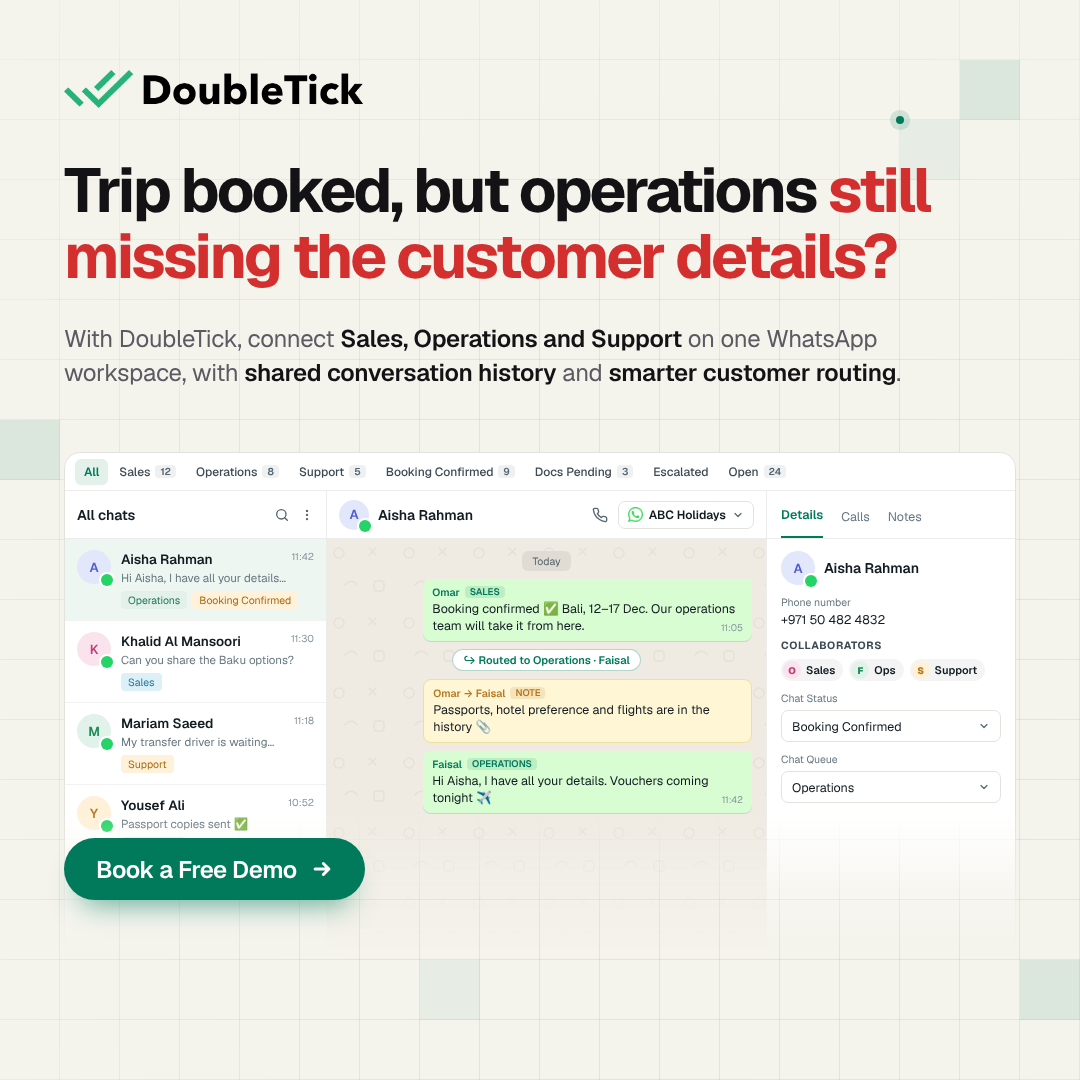
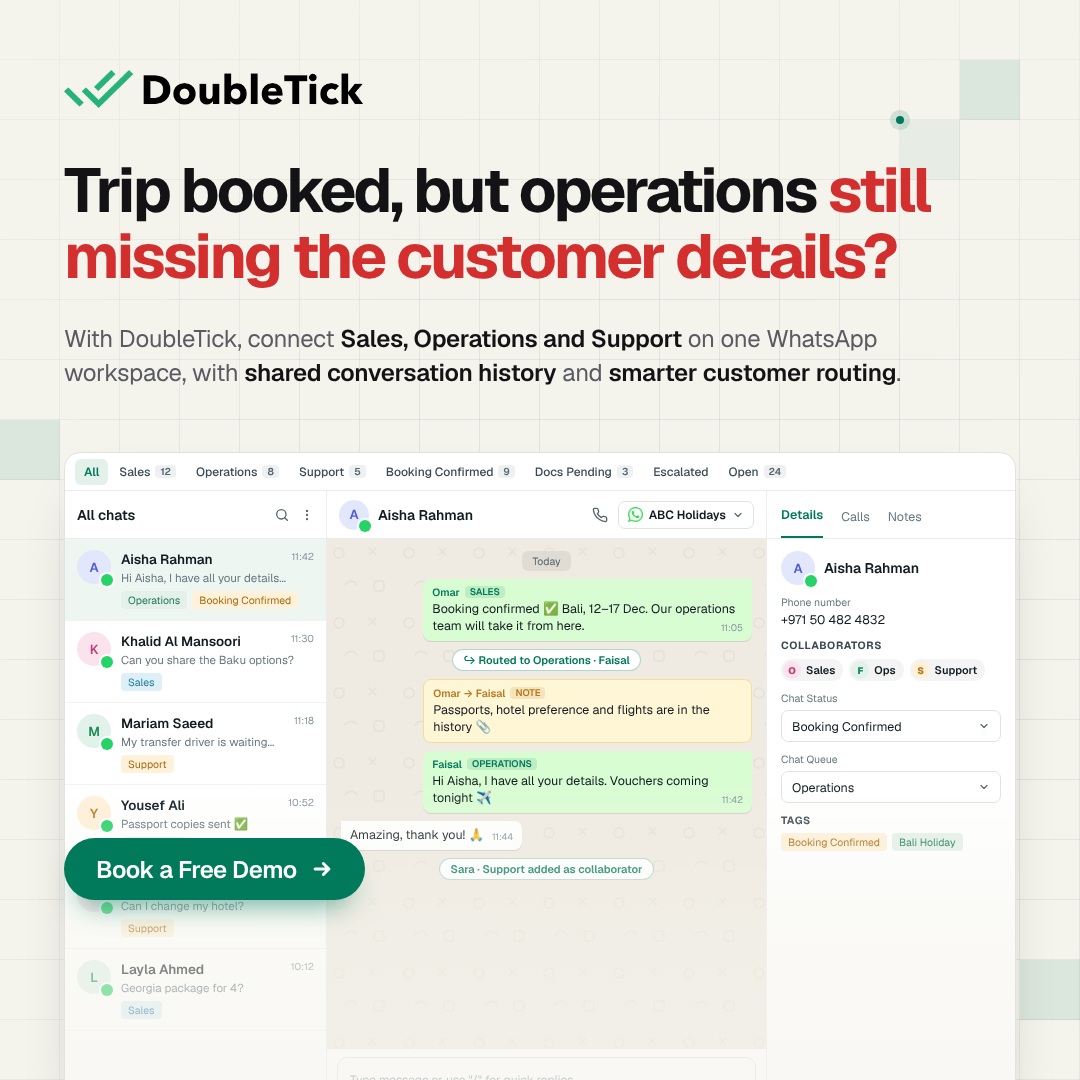
feat(ads): team handoff inbox runs to the bottom with a soft beige wash
Claude-Session: https://claude.ai/code/session_01U68wzeZAut9FRgfZMxNXRM

diff --git a/ads/doubletick-team-handoff/index.html b/ads/doubletick-team-handoff/index.html
@@ -24,8 +24,9 @@
   .sub b { color: var(--ink); font-weight: 600; }
 
   /* DoubleTick inbox (reference UI, simplified) fading into the background */
-  #ui { left: 64px; top: 452px; width: 952px; height: 500px; border-radius: 16px; background: #fff; border: 1px solid #E3E3DE; box-shadow: 0 30px 60px -30px rgba(19,19,22,0.3); overflow: hidden; color: #111B21; font-size: 12px;
-        -webkit-mask-image: linear-gradient(to bottom, #000 0%, #000 72%, rgba(0,0,0,0.3) 88%, transparent 100%); }
+  #ui { z-index: 1; left: 64px; top: 452px; width: 952px; height: 660px; border-radius: 16px; background: #fff; border: 1px solid #E3E3DE; box-shadow: 0 30px 60px -30px rgba(19,19,22,0.3); overflow: hidden; color: #111B21; font-size: 12px; }
+  #ui::after { content: ""; position: absolute; inset: 0; pointer-events: none; z-index: 5; background: linear-gradient(to bottom, rgba(244,243,236,0) 0%, rgba(244,243,236,0) 50%, rgba(244,243,236,0.45) 72%, rgba(244,243,236,0.62) 100%); }
+  .comp { height: 46px; flex: none; display: flex; align-items: center; gap: 10px; margin: 8px 10px; padding: 0 12px; border: 1px solid #E3E3DE; border-radius: 10px; font-size: 12px; color: #8696A0; background: #fff; }
   .stabs { height: 38px; display: flex; align-items: center; gap: 2px; padding: 0 10px; border-bottom: 1px solid #ECECEC; white-space: nowrap; overflow: hidden; }
   .stabs span { padding: 5px 9px; border-radius: 6px; font-size: 12px; font-weight: 500; color: #3B4A54; display: inline-flex; align-items: center; gap: 5px; }
   .stabs span.on { background: #E3F1EA; color: var(--green); font-weight: 600; }
@@ -71,7 +72,7 @@
   .collab span { display: inline-flex; align-items: center; gap: 5px; font-size: 11px; font-weight: 600; padding: 2px 8px 2px 2px; border-radius: 999px; background: #F3F4F3; }
   .collab span b { width: 18px; height: 18px; border-radius: 50%; display: grid; place-items: center; font-size: 9.5px; }
   .sel2 { margin-top: 5px; height: 32px; border: 1px solid #E3E3DE; border-radius: 7px; display: flex; align-items: center; justify-content: space-between; padding: 0 10px; font-size: 12.5px; }
-  .footer { position: absolute; left: 64px; bottom: 180px; }
+  .footer { position: absolute; left: 64px; bottom: 180px; z-index: 10; }
   .cta { display: inline-flex; align-items: center; gap: 14px; padding: 0 32px; height: 62px; border-radius: 999px; background: var(--green); color: #fff; font-weight: 600; font-size: 24px; letter-spacing: -0.02em; box-shadow: 0 18px 30px -16px rgba(0,122,90,0.7); }
 </style>
 </head>
@@ -93,7 +94,7 @@
   <!-- DoubleTick inbox: Sales, Operations and Support on one thread -->
   <div id="ui" class="abs">
     <div class="stabs"><span class="on">All</span><span>Sales <b>12</b></span><span>Operations <b>8</b></span><span>Support <b>5</b></span><span>Booking Confirmed <b>9</b></span><span>Docs Pending <b>3</b></span><span>Escalated</span><span>Open <b>24</b></span></div>
-    <div class="pane" id="pList"><div class="ph2">All chats<span class="r"><svg width="16" height="16" viewBox="0 0 24 24" fill="none" stroke="#54656F" stroke-width="2" stroke-linecap="round" stroke-linejoin="round"><circle cx="11" cy="11" r="7"/><path d="M20 20l-4-4"/></svg><svg width="14" height="14" viewBox="0 0 24 24" fill="#54656F"><circle cx="12" cy="5" r="2"/><circle cx="12" cy="12" r="2"/><circle cx="12" cy="19" r="2"/></svg></span></div><div class="crow sel"><div class="av2 a1">A<span class="wa2"></span></div><div class="b2"><div class="nm"><span>Aisha Rahman</span><span>11:42</span></div><div class="pv">Hi Aisha, I have all your details...</div><div class="tg2"><span class="">Operations</span><span class="amb">Booking Confirmed</span></div></div></div><div class="crow"><div class="av2 a2">K<span class="wa2"></span></div><div class="b2"><div class="nm"><span>Khalid Al Mansoori</span><span>11:30</span></div><div class="pv">Can you share the Baku options?</div><div class="tg2"><span class="blu">Sales</span></div></div></div><div class="crow"><div class="av2 a3">M<span class="wa2"></span></div><div class="b2"><div class="nm"><span>Mariam Saeed</span><span>11:18</span></div><div class="pv">My transfer driver is waiting...</div><div class="tg2"><span class="amb">Support</span></div></div></div><div class="crow"><div class="av2 a4">Y<span class="wa2"></span></div><div class="b2"><div class="nm"><span>Yousef Ali</span><span>10:52</span></div><div class="pv">Passport copies sent ✅</div><div class="tg2"><span class="">Operations</span></div></div></div></div>
+    <div class="pane" id="pList"><div class="ph2">All chats<span class="r"><svg width="16" height="16" viewBox="0 0 24 24" fill="none" stroke="#54656F" stroke-width="2" stroke-linecap="round" stroke-linejoin="round"><circle cx="11" cy="11" r="7"/><path d="M20 20l-4-4"/></svg><svg width="14" height="14" viewBox="0 0 24 24" fill="#54656F"><circle cx="12" cy="5" r="2"/><circle cx="12" cy="12" r="2"/><circle cx="12" cy="19" r="2"/></svg></span></div><div class="crow sel"><div class="av2 a1">A<span class="wa2"></span></div><div class="b2"><div class="nm"><span>Aisha Rahman</span><span>11:42</span></div><div class="pv">Hi Aisha, I have all your details...</div><div class="tg2"><span class="">Operations</span><span class="amb">Booking Confirmed</span></div></div></div><div class="crow"><div class="av2 a2">K<span class="wa2"></span></div><div class="b2"><div class="nm"><span>Khalid Al Mansoori</span><span>11:30</span></div><div class="pv">Can you share the Baku options?</div><div class="tg2"><span class="blu">Sales</span></div></div></div><div class="crow"><div class="av2 a3">M<span class="wa2"></span></div><div class="b2"><div class="nm"><span>Mariam Saeed</span><span>11:18</span></div><div class="pv">My transfer driver is waiting...</div><div class="tg2"><span class="amb">Support</span></div></div></div><div class="crow"><div class="av2 a4">Y<span class="wa2"></span></div><div class="b2"><div class="nm"><span>Yousef Ali</span><span>10:52</span></div><div class="pv">Passport copies sent ✅</div><div class="tg2"><span class="">Operations</span></div></div></div><div class="crow"><div class="av2 a2">F<span class="wa2"></span></div><div class="b2"><div class="nm"><span>Fatima Hassan</span><span>10:31</span></div><div class="pv">Can I change my hotel?</div><div class="tg2"><span class="amb">Support</span></div></div></div><div class="crow"><div class="av2 a3">L<span class="wa2"></span></div><div class="b2"><div class="nm"><span>Layla Ahmed</span><span>10:12</span></div><div class="pv">Georgia package for 4?</div><div class="tg2"><span class="blu">Sales</span></div></div></div></div>
     <div class="pane" id="pConv">
       <div class="ph2"><div class="av2 a1" style="width:30px;height:30px">A<span class="wa2"></span></div>Aisha Rahman<span class="r"><svg width="16" height="16" viewBox="0 0 24 24" fill="none" stroke="#54656F" stroke-width="2" stroke-linecap="round" stroke-linejoin="round"><path d="M22 16.9v3a2 2 0 0 1-2.2 2 19.8 19.8 0 0 1-8.6-3.1 19.5 19.5 0 0 1-6-6A19.8 19.8 0 0 1 2.1 4.2 2 2 0 0 1 4.1 2h3a2 2 0 0 1 2 1.7c.1 1 .4 1.9.7 2.8a2 2 0 0 1-.5 2.1L8 9.9a16 16 0 0 0 6 6l1.3-1.3a2 2 0 0 1 2.1-.5c.9.3 1.8.6 2.8.7a2 2 0 0 1 1.7 2z"/></svg><span class="waba"><img src="whatsapp-logo.png" alt="" style="width:15px;height:15px" />ABC Holidays <svg width="12" height="12" viewBox="0 0 24 24" fill="none" stroke="#54656F" stroke-width="2.4" stroke-linecap="round" stroke-linejoin="round"><path d="M6 9l6 6 6-6"/></svg></span></span></div>
       <div class="thr">
@@ -102,7 +103,10 @@
         <span class="sysc">↪ Routed to Operations · Faisal</span>
         <div class="msg note"><span class="who">Omar → Faisal <i>NOTE</i></span>Passports, hotel preference and flights are in the history 📎</div>
         <div class="msg out"><span class="who">Faisal <i>OPERATIONS</i></span>Hi Aisha, I have all your details. Vouchers coming tonight ✈<span class="tm">11:42</span></div>
+        <div class="msg in">Amazing, thank you! 🙏<span class="tm">11:44</span></div>
+        <span class="sysc">Sara · Support added as collaborator</span>
       </div>
+      <div class="comp">Type message or use "/" for quick replies</div>
     </div>
     <div class="pane" id="pDet">
       <div class="dtabs"><span class="on">Details</span><span>Calls</span><span>Notes</span></div>
@@ -111,6 +115,7 @@
       <div class="dsec"><div class="dh2">COLLABORATORS</div><div class="collab"><span><b class="a2">O</b>Sales</span><span><b class="a3">F</b>Ops</span><span><b class="a4">S</b>Support</span></div></div>
       <div class="dsec"><div class="dl">Chat Status</div><div class="sel2">Booking Confirmed <svg width="12" height="12" viewBox="0 0 24 24" fill="none" stroke="#54656F" stroke-width="2.4" stroke-linecap="round" stroke-linejoin="round"><path d="M6 9l6 6 6-6"/></svg></div></div>
       <div class="dsec"><div class="dl">Chat Queue</div><div class="sel2">Operations <svg width="12" height="12" viewBox="0 0 24 24" fill="none" stroke="#54656F" stroke-width="2.4" stroke-linecap="round" stroke-linejoin="round"><path d="M6 9l6 6 6-6"/></svg></div></div>
+      <div class="dsec"><div class="dh2">TAGS</div><div class="tg2"><span class="amb">Booking Confirmed</span><span>Bali Holiday</span></div></div>
     </div>
   </div>
 
